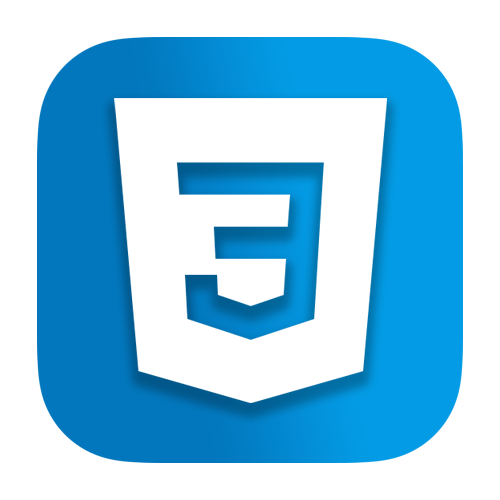
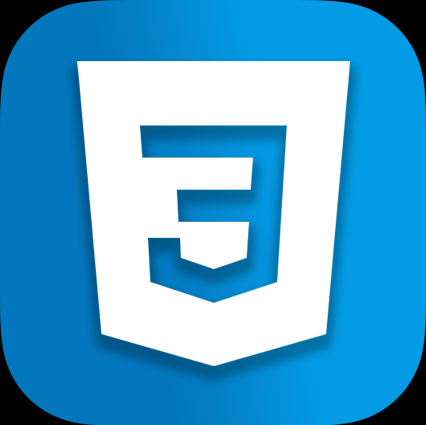
cropped assets + initaliazing clipboard feature

diff --git a/src/components/Contacts.jsx b/src/components/Contacts.jsx
@@ -1,11 +1,9 @@
-import "./Contacts.css";
 import { useEffect, useRef, useState } from "react";
 import { useDispatch, useSelector } from "react-redux";
 import * as contactsJSON from "../assets/contacts.json";
 import PhoneApp from "./PhoneApp";
 import { finishedLoading, loading } from "../slices/loadingSlice";
 import Loader from "./Loader";
-import { ClipboardIcon } from "@heroicons/react/24/outline";
 
 const Contacts = () => {
   const contacts = useRef(JSON.parse(JSON.stringify(contactsJSON)).contacts);
@@ -18,7 +16,8 @@ const Contacts = () => {
       dispatch(finishedLoading());
     }, delay);
   }, []);
-
+  //the clipboard is rendered in the PhoneApp component, but since is rendered only when route is "/contacts",
+  // we can put the logic here
   const handleMouseOver = (e) => {
     const clipboard = e.currentTarget.querySelector(".clipboard");
     clipboard.classList.add("visible");
@@ -29,9 +28,20 @@ const Contacts = () => {
     clipboard.classList.remove("visible");
   };
 
+  const writeClipboard = (text) => {
+    navigator.clipboard
+      .writeText(text)
+      .then(() => {
+        //text copied in the clipboard
+      })
+      .catch(() => {
+        //error while copying the text
+      });
+  };
+
   return (
     <>
-      {/* the loader component "knows" wether or not be shown */}
+      {/* the loader component "knows" wheter or not be shown */}
       <Loader />
       <section className={`contacts ${isLoading ? "loading" : ""}`}>
         <div className="grid grid-cols-3  ">
@@ -41,12 +51,10 @@ const Contacts = () => {
                 className="contact relative "
                 onMouseOver={handleMouseOver}
                 onMouseLeave={handleMouseLeave}
+                onClick={writeClipboard(contact.content)}
                 key={index}
               >
                 <PhoneApp icon={contact.icon} />
-                <div className="clipboard  h-[48px] xxs:h-[55px] grid place-items-center">
-                  <ClipboardIcon className="size-8" />
-                </div>
               </div>
             );
           })}

diff --git a/src/components/PhoneApp.jsx b/src/components/PhoneApp.jsx
@@ -1,17 +1,48 @@
+import { useLocation } from "react-router";
+import { ClipboardIcon } from "@heroicons/react/24/outline";
+import "./PhoneApp.css";
+
 const PhoneApp = ({ index, icon, title }) => {
+  const routePath = useLocation().pathname;
+
+  const ShowClipboard = () => {
+    if (routePath === "/contacts") {
+      return (
+        <div className="clipboard absolute grid place-items-center">
+          <ClipboardIcon className="size-7" />
+        </div>
+      );
+    }
+  };
+
+  const ShowTitle = () => {
+    if (routePath !== "/contacts") {
+      return (
+        <h5 className="font-medium text-xs xs:text-sm sm:text-base text-white mt-2 text-nowrap">
+          {title}
+        </h5>
+      );
+    }
+  };
   return (
     <div
       data-index={index !== null ? index : ""}
-      className="phone-app flex flex-col  justify-center items-center pt-4 px-0 xxs:px-2 xxs:py-2"
+      className={`phone-app flex flex-col  justify-center items-center pt-4 ${
+        routePath === "/contacts" ? "pt-6" : ""
+      }  px-0 xxs:px-2`}
     >
-      <img
-        className="w-4/6 h-[50px] xxs:h-[60px] object-contain"
-        src={icon}
-        alt=""
-      />
-      <h5 className="font-medium text-xs xs:text-sm sm:text-base text-white mt-2 text-nowrap">
-        {title}
-      </h5>
+      <div
+        style={{
+          backgroundImage: "url(" + icon + ")",
+          backgroundSize: "cover",
+          backgroundPosition: "center",
+          backgroundRepeat: "no-repeat",
+        }}
+        className="phone-img-container w-4/6 h-[55px] xxs:h-[60px] relative rounded-xl"
+      >
+        <ShowClipboard />
+      </div>
+      <ShowTitle />
     </div>
   );
 };

diff --git a/src/components/AboutMe.jsx b/src/components/AboutMe.jsx
@@ -33,7 +33,7 @@ const AboutMe = () => {
 
   return (
     <>
-      {/* the loader component "knows" wether or not be shown */}
+      {/* the loader component "knows" wheter or not be shown */}
       <Loader />
       <section className={`about-me ${isLoading ? "loading" : ""}`}>
         <div className="grid grid-cols-3">

diff --git a/src/components/Home.jsx b/src/components/Home.jsx
@@ -70,7 +70,7 @@ const Home = () => {
 
   return (
     <>
-      {/* the loader component "knows" wether or not be shown */}
+      {/* the loader component "knows" wheter or not be shown */}
       <Loader />
       <section
         className={`home h-full  relative ${isLoading ? "loading" : ""}`}

diff --git a/src/components/PhoneApp.css b/src/components/PhoneApp.css
@@ -1,0 +1,16 @@
+.clipboard {
+  cursor: pointer;
+  background: rgba(0, 0, 0, 0.7);
+  top: 0;
+  left: 0;
+  bottom: 0;
+  right: 0;
+  border-radius: 0.75rem;
+  opacity: 0;
+  transition: opacity 0.2s ease-out;
+}
+
+.clipboard.visible {
+  opacity: 1;
+  transition: opacity 0.2s ease-out;
+}

diff --git a/src/components/CodingSkills.jsx b/src/components/CodingSkills.jsx
@@ -22,7 +22,7 @@ const CodingSkills = () => {
 
   return (
     <>
-      {/* the loader component "knows" wether or not be shown */}
+      {/* the loader component "knows" wheter or not be shown */}
       <Loader />
       <section
         className={`coding-skills ${

diff --git a/src/components/ProjectsComponent.jsx b/src/components/ProjectsComponent.jsx
@@ -40,7 +40,7 @@ const ProjectsComponent = () => {
 
   return (
     <>
-      {/* the loader component "knows" wether or not be shown */}
+      {/* the loader component "knows" wheter or not be shown */}
       <Loader />
       <section
         className={`projects ${

diff --git a/src/App.jsx b/src/App.jsx
@@ -11,7 +11,6 @@ import homeIcon from "./assets/home.png";
 
 function App() {
   const cursorRef = useRef(null);
-
   const routePath = useLocation().pathname;
 
   const ShowHomeLink = () => {
